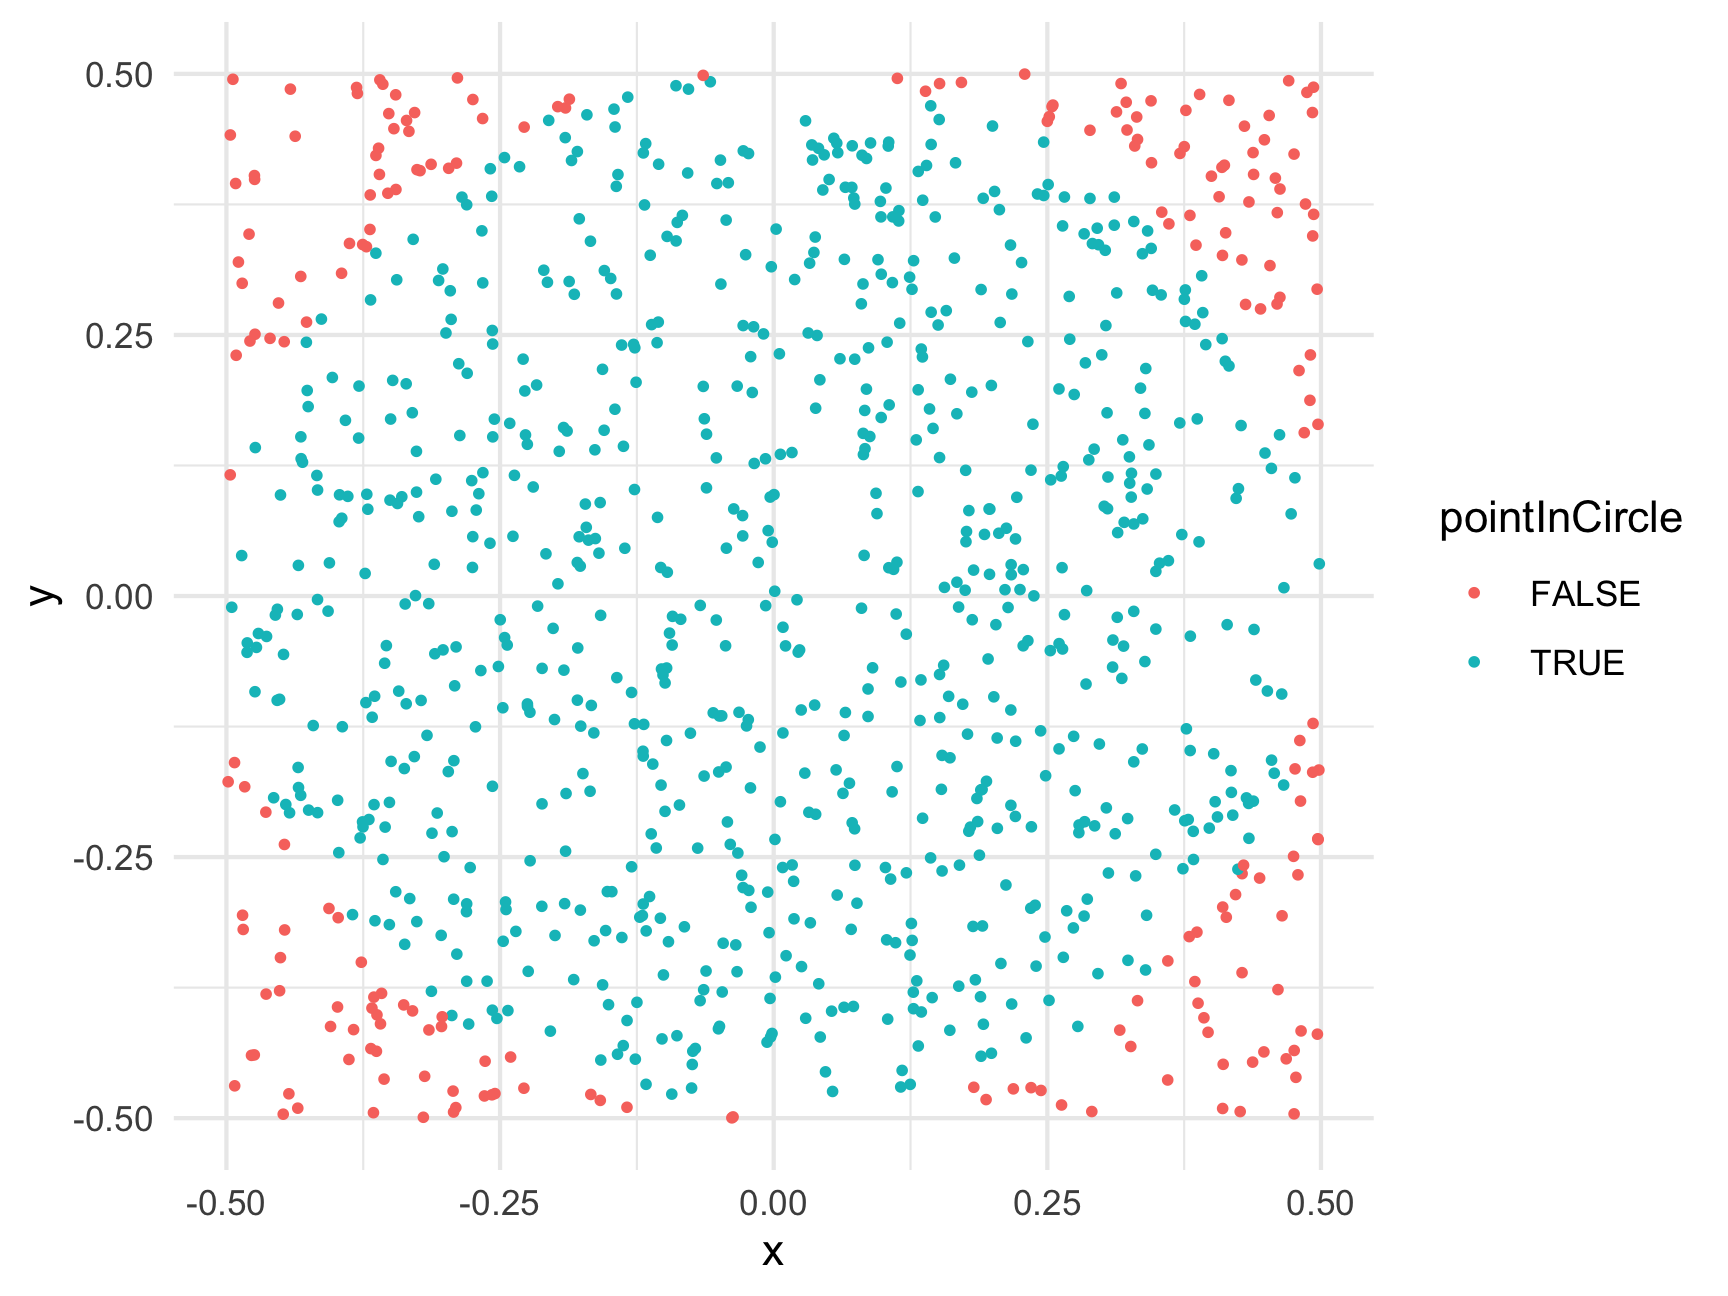
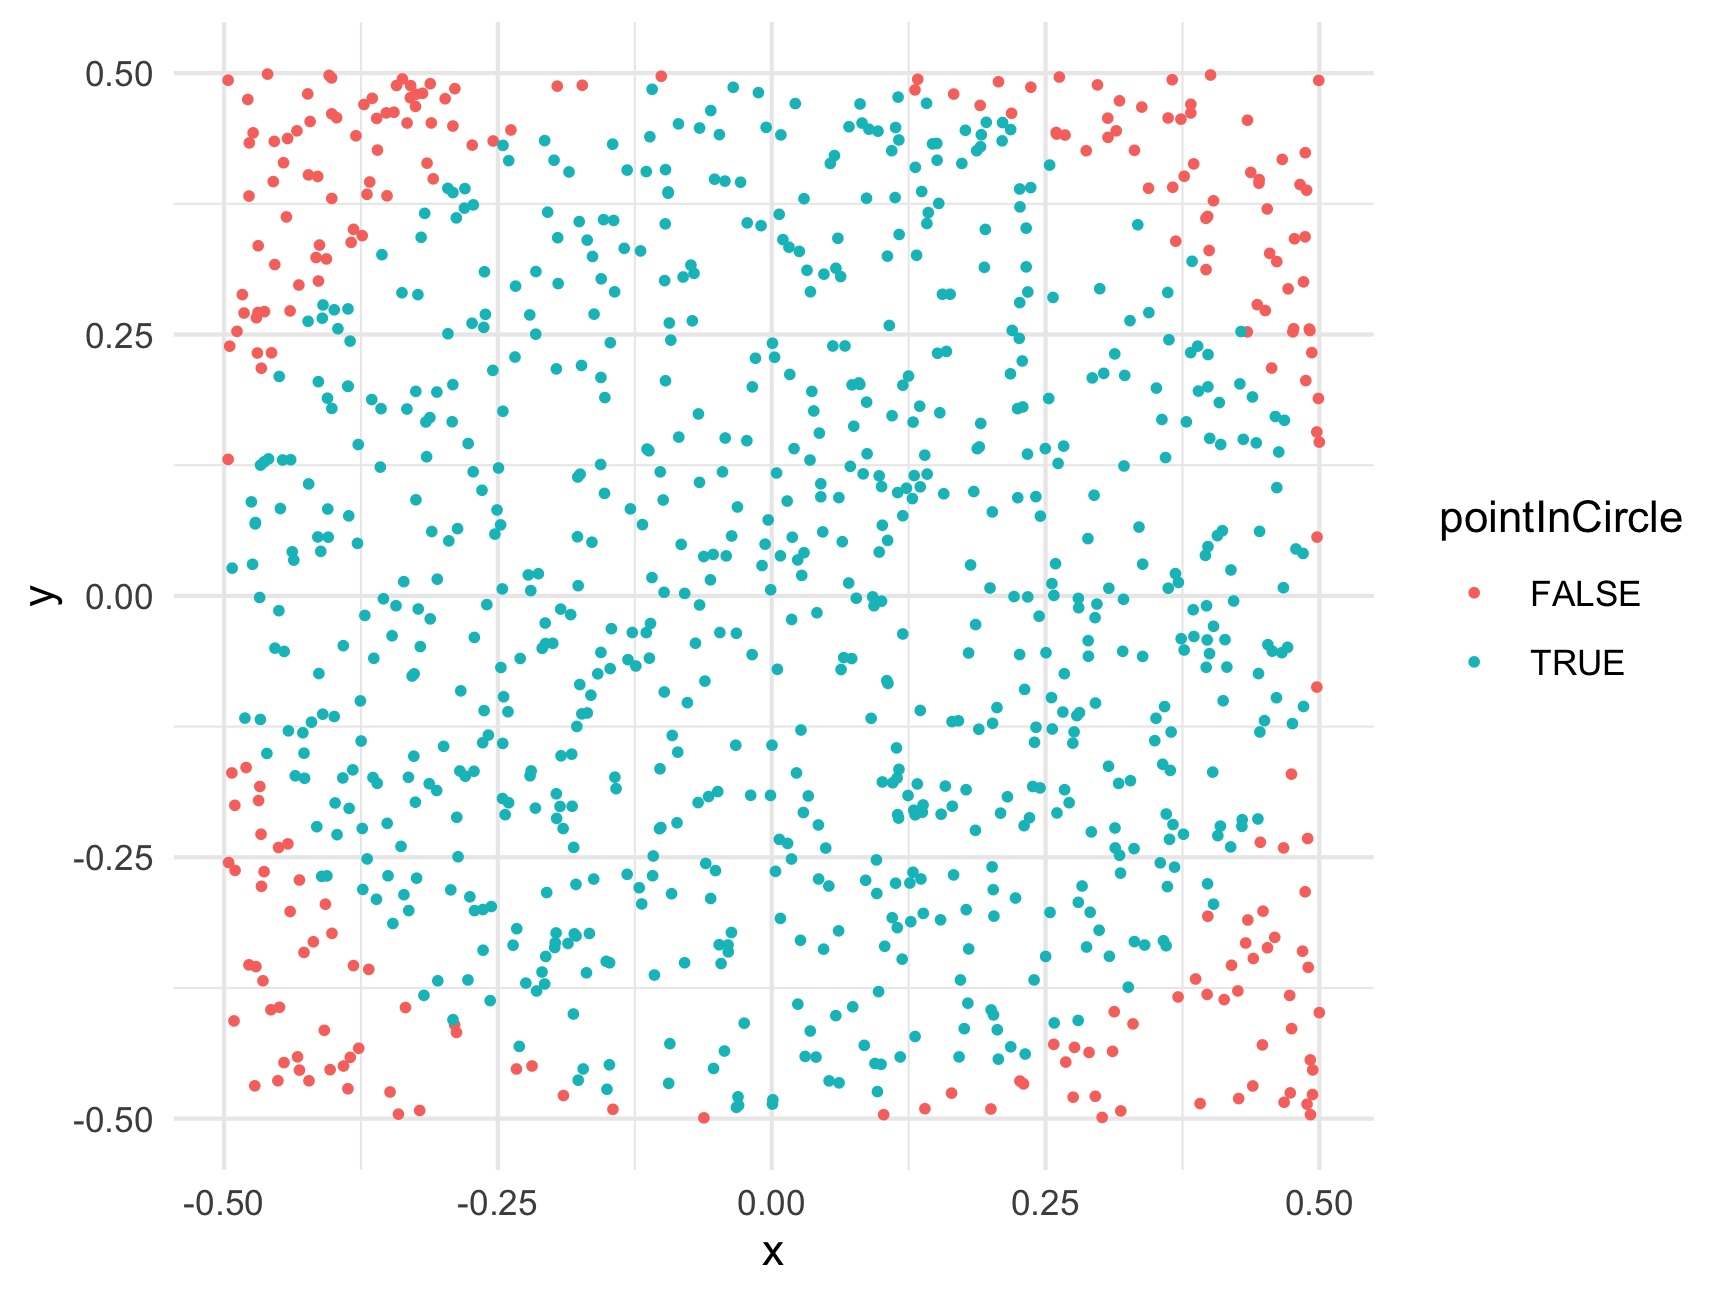
Deploying to gh-pages from  @ 1819ec0f47925d0950c611f1dbc22967ab6fa174 🚀

diff --git a/r13-monte-carlo-methods.html b/r13-monte-carlo-methods.html
@@ -805,11 +805,11 @@ ratio &lt;- sum(belowCurve) / numTrials
 totalArea &lt;- (7 - 3) * 7^2 # Rectangle length x height = 196
 areaUnderCurve &lt;- ratio * totalArea
 areaUnderCurve</code></pre>
-<pre><code>#&gt; [1] 105.35</code></pre>
-<p>So, using Monte Carlo simulation with 100,000 points, we estimate that the area under the curve is 105.35. How’d we do? Well, if you’re familiar with calculus, the integral of <span class="math inline">\(f(x) = x^2\)</span> has a closed-form solution (<span class="math inline">\(\frac{x^3}{3} + C\)</span>), so we can check our estimate against the pure-math solution:</p>
+<pre><code>#&gt; [1] 105.544</code></pre>
+<p>So, using Monte Carlo simulation with 100,000 points, we estimate that the area under the curve is 105.54404. How’d we do? Well, if you’re familiar with calculus, the integral of <span class="math inline">\(f(x) = x^2\)</span> has a closed-form solution (<span class="math inline">\(\frac{x^3}{3} + C\)</span>), so we can check our estimate against the pure-math solution:</p>
 <p><span class="math display">\[\int_{3}^{7} x^2 \mathrm{dx} = \left ( \frac{x^3}{3} \right ) \Big|_3^7 = \frac{7^3}{3} - \frac{3^3}{3} = 105.33\bar{3}\]</span></p>
-<p>So our estimate error is: <code>105.333 -</code> <code>105.35</code> <code>=</code> <code>-0.0166667</code>.</p>
-<p>That’s an error of just 0.02 % - not bad!</p>
+<p>So our estimate error is: <code>105.333 -</code> <code>105.54404</code> <code>=</code> <code>-0.2107067</code>.</p>
+<p>That’s an error of just 0.2 % - not bad!</p>
 <hr />
 </div>
 <div id="monte-carlo-pi" class="section level1">
@@ -839,13 +839,13 @@ points &lt;- data.frame(
     x = runif(numTrials, -0.5, 0.5),
     y = runif(numTrials, -0.5, 0.5))
 head(points)</code></pre>
-<pre><code>#&gt;             x          y
-#&gt; 1  0.34488923  0.3328926
-#&gt; 2 -0.39126898  0.1682393
-#&gt; 3  0.18635141 -0.2159761
-#&gt; 4 -0.40486597 -0.4122154
-#&gt; 5  0.38351865 -0.2522851
-#&gt; 6  0.05063021  0.3988744</code></pre>
+<pre><code>#&gt;            x          y
+#&gt; 1  0.2016434 -0.1218778
+#&gt; 2  0.4913730  0.2537875
+#&gt; 3 -0.3175509 -0.3820506
+#&gt; 4  0.1546593 -0.2088205
+#&gt; 5  0.4498931 -0.1192978
+#&gt; 6 -0.2930422 -0.2812026</code></pre>
 <p>For this example, we’re putting the points in a data frame to make it easier to work with. Now that we have random x and y points, let’s compute the radius to each point (the distance from <code>(x, y) = (0, 0)</code>) so we can determine which points fall inside the circle (which has a radius of 0.5):</p>
 <pre class="r"><code>library(dplyr)
 points &lt;- points %&gt;%
@@ -862,9 +862,9 @@ ggplot(points) +
 <pre class="r"><code>ratio &lt;- sum(points$pointInCircle) / nrow(points)
 piApprox &lt;- 4 * ratio
 piApprox</code></pre>
-<pre><code>#&gt; [1] 3.128</code></pre>
-<p>So our estimate error is: <code>3.1415 -</code> <code>3.128</code> <code>=</code> <code>-0.0135927</code>.</p>
-<p>That’s an error of just 0.43 % - not bad for only 1,000 points!</p>
+<pre><code>#&gt; [1] 3.04</code></pre>
+<p>So our estimate error is: <code>3.1415 -</code> <code>3.04</code> <code>=</code> <code>-0.1015927</code>.</p>
+<p>That’s an error of just 3.23 % - not bad for only 1,000 points!</p>
 <p>To get an even better estimate of <span class="math inline">\(\pi\)</span>, we can increase N. Let’s see what we get with 100,000 trials:</p>
 <pre class="r"><code>numTrials &lt;- 100000
 points &lt;- data.frame(
@@ -876,13 +876,13 @@ points &lt;- data.frame(
 ratio &lt;- sum(points$pointInCircle) / nrow(points)
 piApprox &lt;- 4 * ratio
 piApprox</code></pre>
-<pre><code>#&gt; [1] 3.13816</code></pre>
+<pre><code>#&gt; [1] 3.14536</code></pre>
 <pre class="r"><code># Compute error:
 error &lt;- piApprox - pi
 percentError &lt;- round(100*abs(error / pi), 2)
 percentError</code></pre>
-<pre><code>#&gt; [1] 0.11</code></pre>
-<p>By increasing the number of trials from 1,000 to 100,000, we improved our estimate error from 0.43 % to 0.11 %!</p>
+<pre><code>#&gt; [1] 0.12</code></pre>
+<p>By increasing the number of trials from 1,000 to 100,000, we improved our estimate error from 3.23 % to 0.12 %!</p>
 <hr />
 <p><strong>Page sources</strong>:</p>
 <p>Some content on this page has been modified from other courses, including:</p>

diff --git a/r2-functions-packages.html b/r2-functions-packages.html
@@ -763,7 +763,7 @@ div.tocify {
 <p>Here the letters <code>sqrt</code> are short for “square root,” and the value inside the <code>()</code> is the “argument” to the function. In the example above, the value <code>225</code> is the “argument”.</p>
 <p>Keep in mind that not all functions have (or require) arguments:</p>
 <pre class="r"><code>date() # Returns the current date and time</code></pre>
-<pre><code>#&gt; [1] &quot;Thu Feb 10 22:25:45 2022&quot;</code></pre>
+<pre><code>#&gt; [1] &quot;Fri Feb 11 14:37:28 2022&quot;</code></pre>
 <p>(the date above is the date this page was last built)</p>
 <div id="multiple-arguments" class="section level2">
 <h2>Multiple arguments</h2>
@@ -981,9 +981,9 @@ library(packagename)   # This also works</code></pre>
 <p>Now that you have the package installed on your computer, try loading it using <code>library(wikifacts)</code>, then trying using some of it’s functions:</p>
 <pre class="r"><code>library(wikifacts) # Load the library</code></pre>
 <pre class="r"><code>wiki_randomfact()</code></pre>
-<pre><code>#&gt; [1] &quot;Did you know that Abbo Nassour became the speaker of the Chadian parliament in 1969, after having been sentenced to death a few years earlier? (Courtesy of Wikipedia)&quot;</code></pre>
+<pre><code>#&gt; [1] &quot;Here&#39;s some news from 29 October 2020. In Poland, protests break out following changes to abortion laws. (Courtesy of Wikipedia)&quot;</code></pre>
 <pre class="r"><code>wiki_didyouknow()</code></pre>
-<pre><code>#&gt; [1] &quot;Did you know that Guadeloupe&#39;s coffee heritage (coffee field pictured) is being promoted through ecotourism? (Courtesy of Wikipedia)&quot;</code></pre>
+<pre><code>#&gt; [1] &quot;Did you know that a 1950 documentary filmed at a Christian college in Beirut shows how missionary education imparts \&quot;modern democratic ways of thinking and living\&quot; to Christians, Muslims, and Jews? (Courtesy of Wikipedia)&quot;</code></pre>
 <p>In case you’re wondering, the only thing this package does is generate messages containing random facts from <a href="https://www.wikipedia.org/">Wikipedia</a>.</p>
 </div>
 <div id="using-only-some-package-functions" class="section level2">
@@ -994,7 +994,7 @@ library(packagename)   # This also works</code></pre>
 </blockquote>
 <p>Here I use the name of the <em>package</em> followed by <code>::</code> to tell R that I’m looking for a function that is in that package. For example, if I didn’t want to load the whole <strong>wikifacts</strong> library but still wanted to use the <code>wiki_randomfact()</code> function, I could do this:</p>
 <pre class="r"><code>wikifacts::wiki_randomfact()</code></pre>
-<pre><code>#&gt; [1] &quot;Here&#39;s some news from 06 December 2018. Ukrainian president Petro Poroshenko declares martial law after Russian forces seize three ships in the disputed Kerch Strait near Crimea. (Courtesy of Wikipedia)&quot;</code></pre>
+<pre><code>#&gt; [1] &quot;Did you know that Lake Jean has been partly drained to repair a dam control tower? (Courtesy of Wikipedia)&quot;</code></pre>
 <p>Where this is particularly handy is when two packages have a function with the same name. If you load both library, R might not know which function to use. In those cases, it’s best to also provide the <strong>package</strong> name. For example, let’s say there was a package called <strong>apples</strong> and another called <strong>bananas</strong>, and each had a function named <code>fruitName()</code>. If I wanted to use each of them in my code, I would need to specify the package names like this:</p>
 <pre class="r"><code>apples::fruitName()
 bananas::fruitName()</code></pre>

diff --git a/schedule.html b/schedule.html
@@ -762,22 +762,22 @@ Feb 03
 </td>
 </tr>
 <tr>
-<td style="text-align:center;">
+<td style="text-align:center;background-color: #e1e1e1 !important;">
 5
 </td>
-<td style="text-align:center;width: 2em; ">
+<td style="text-align:center;width: 2em; background-color: #e1e1e1 !important;">
 Feb 10
 </td>
-<td style="text-align:left;">
+<td style="text-align:left;background-color: #e1e1e1 !important;">
 Quiz 3: <br> <em>Weeks 3 - 4</em>
 </td>
-<td style="text-align:left;width: 20em; ">
+<td style="text-align:left;width: 20em; background-color: #e1e1e1 !important;">
 <a href="c5-iteration.html"><i class="fas fa-laptop-code"></i></a> <strong>Iteration</strong><br>Ins and outs of loops
 </td>
-<td style="text-align:left;width: 9em; ">
+<td style="text-align:left;width: 9em; background-color: #e1e1e1 !important;">
 <a href="hw5-iteration.html"><i class="fas fa-pencil-ruler"></i></a> <strong>HW 5</strong><br>Due: Feb 16
 </td>
-<td style="text-align:left;">
+<td style="text-align:left;background-color: #e1e1e1 !important;">
 <a href="r6-vectors.html"><i class="fas fa-book"></i></a> Vectors
 </td>
 </tr>
